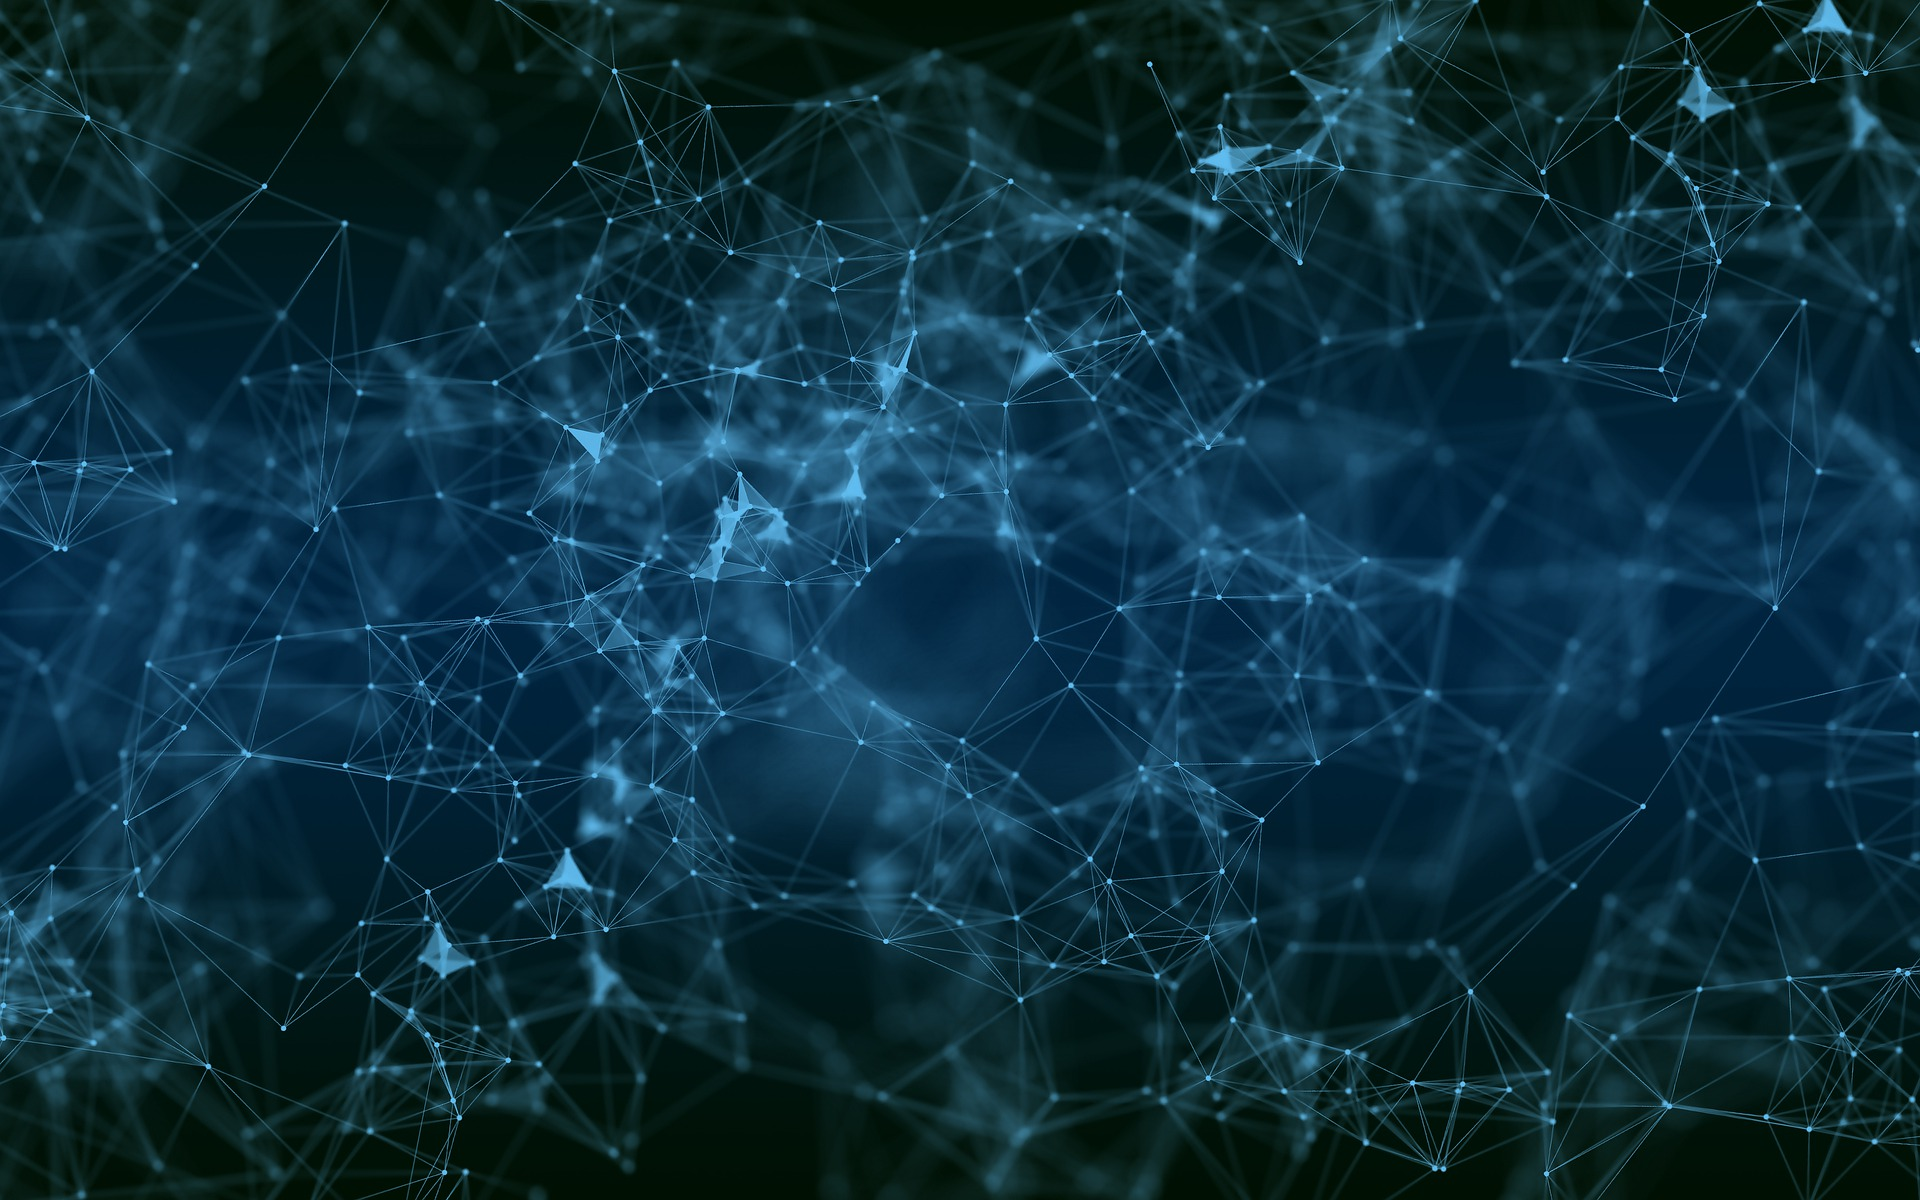
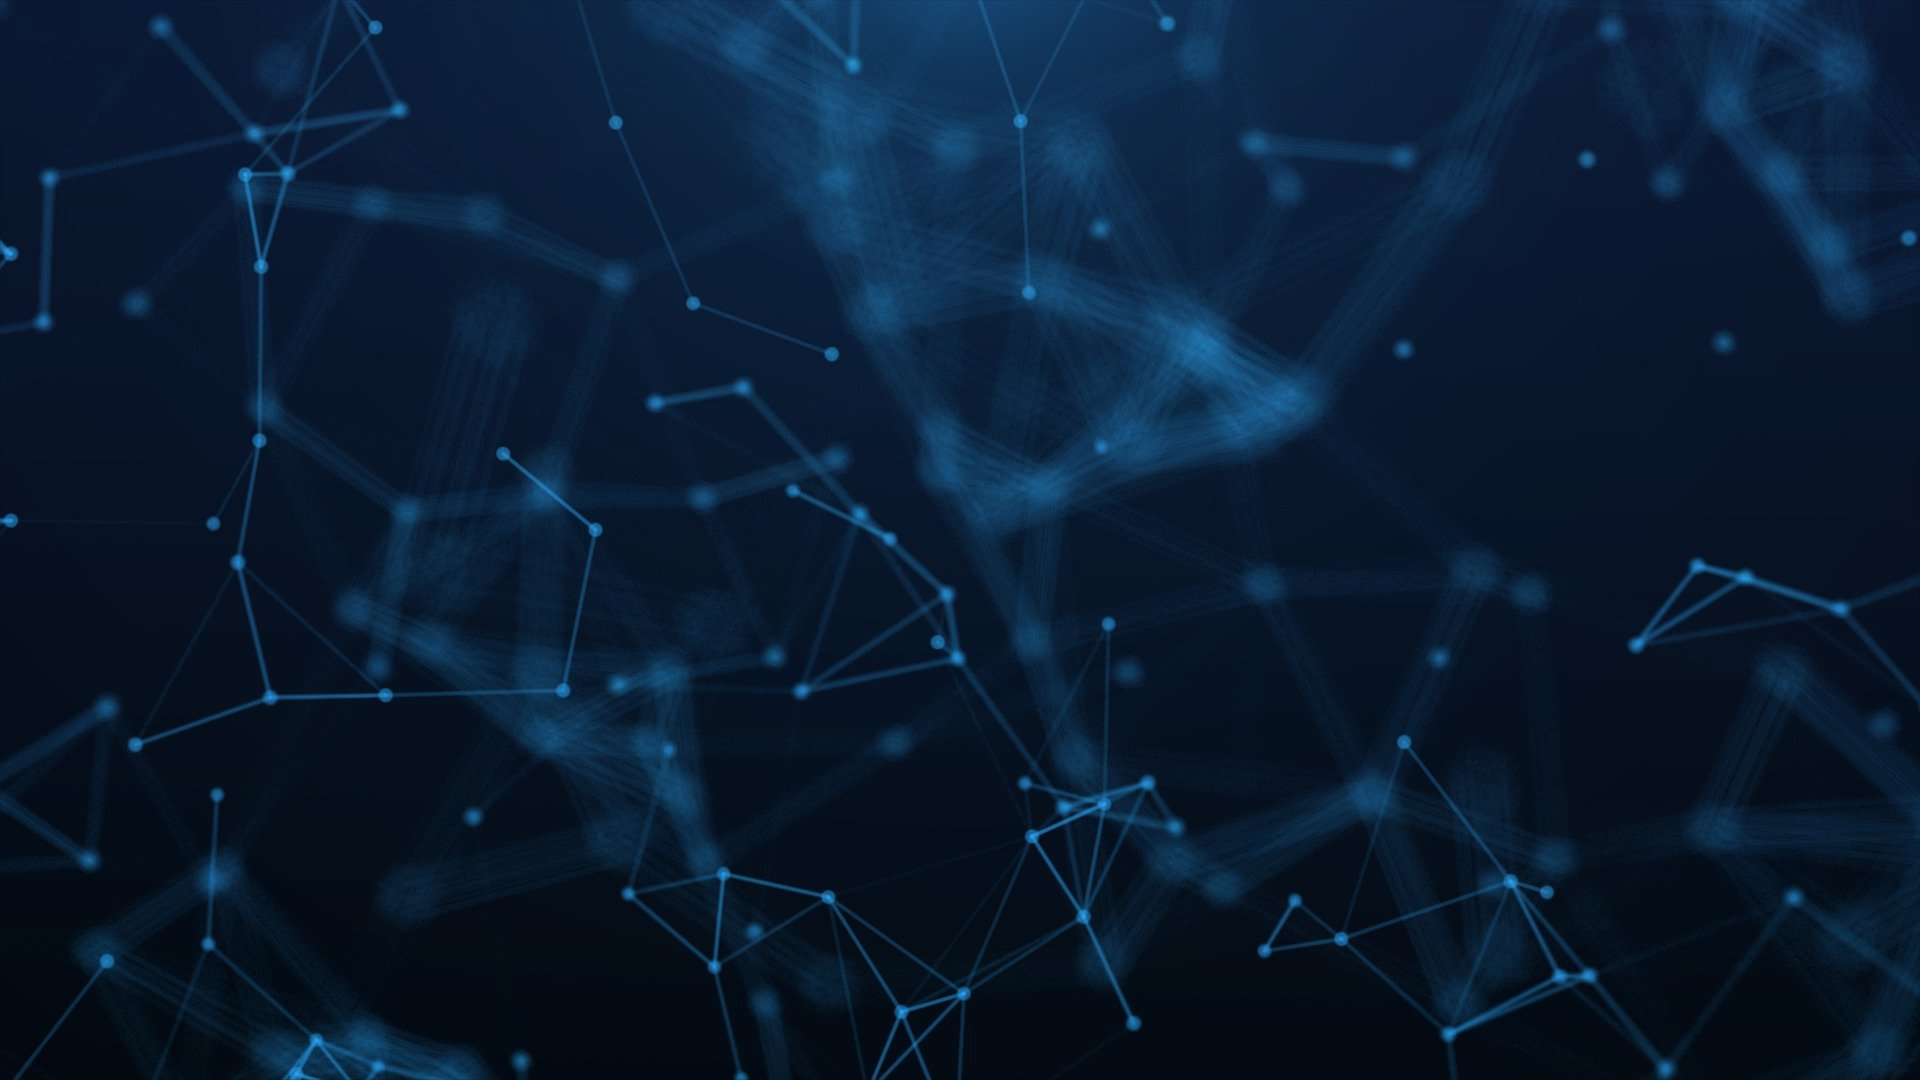
home style improvements

diff --git a/src/app/home/home.component.html b/src/app/home/home.component.html
@@ -1,8 +1,8 @@
 <div class="content border-spacing">
     <div class="home-banner" *ngIf="!this.loader.loading && !this.loader.navigationLoading">
-        <ngx-typed-js [typeSpeed]="100" [startDelay]="1000" [backSpeed]="80" [backDelay]="2000" [contentType]="'html'" [strings]="['Front-End <code>Developer</code>.']" [loop]="true">
-            <h1>Hello, i am <code>Lukas Volgger</code></h1>
-            <span class="headline">I'm a <span class="typing headline"></span></span>
+        <ngx-typed-js [typeSpeed]="100" [startDelay]="1000" [backSpeed]="80" [backDelay]="2000" [contentType]="'html'" [strings]="['Frontend <code>Developer.</code>']" [loop]="true">
+            <h1>Hello, I am <code>Lukas Volgger</code></h1>
+            <span class="typing headline"></span>
         </ngx-typed-js>
     </div>
 </div>

diff --git a/src/app/home/home.component.scss b/src/app/home/home.component.scss
@@ -3,7 +3,7 @@
     justify-content: center;
     position: relative;
     background-image: url('./../../assets/img/background/network.jpg');
-    background-position-y: 50%;
+    background-position-y: 80%;
     background-size: cover;
     margin-bottom: 32px;
     h1 {
